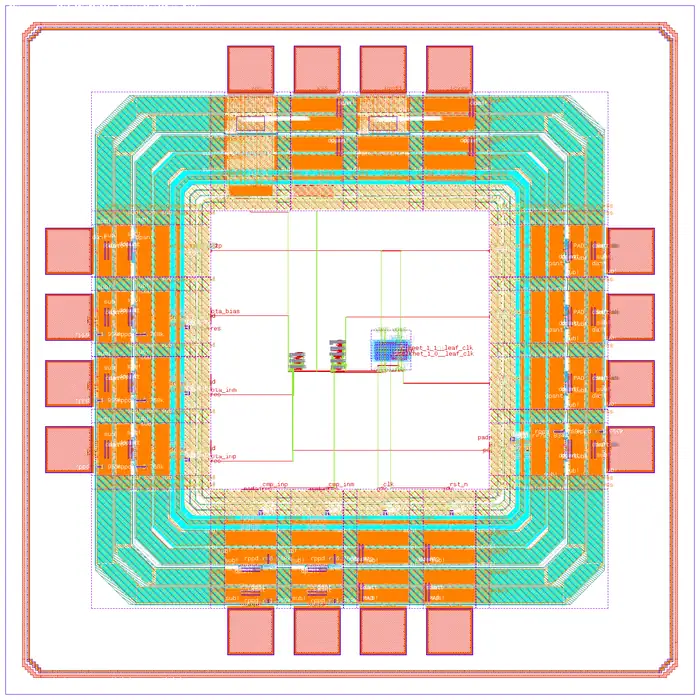
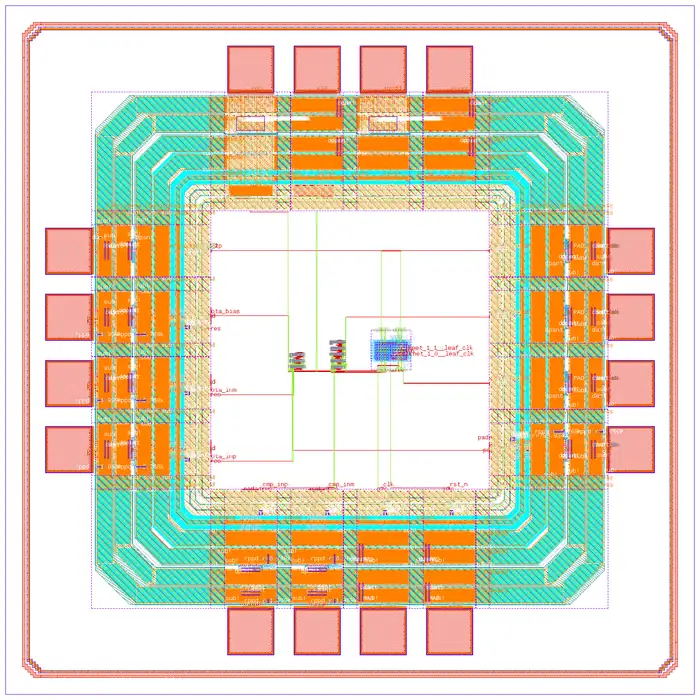
site: refresh layout timings and the chip render from the gated run on c28a1f8

diff --git a/site/index.html b/site/index.html
@@ -263,7 +263,7 @@
               <p>
                 Register IHP SG13G2 once and a project simulates with the PDK's own device models
                 on ngspice or Xyce. The agent sizes transistors by gm/Id from tables it builds,
-                starts from templates proven at every corner, and checks each spec across process,
+                starts from templates checked at every corner, and checks each spec across process,
                 temperature, supply and mismatch.
               </p>
               <ul class="checks">
@@ -306,7 +306,7 @@
             <dl class="facts">
               <div><dt>Two-stage op-amp, drawn</dt><dd>22.2 x 44.1<small>um</small></dd></div>
               <div><dt>Devices and dummies</dt><dd>9 + 8</dd></div>
-              <div><dt>Draw, DRC, LVS</dt><dd>1.1 + 2.7 + 2.6<small>s</small></dd></div>
+              <div><dt>Draw, DRC, LVS</dt><dd>1.1 + 2.5 + 2.5<small>s</small></dd></div>
               <div><dt>DRC and LVS, IHP's decks</dt><dd>clean</dd></div>
             </dl>
             <p class="facts-note">
@@ -320,7 +320,7 @@
             <!-- layout-art:start -->
             <img src="/img/ic/two-stage-layout.webp" srcset="/img/ic/two-stage-layout-1x.webp 1x, /img/ic/two-stage-layout.webp 2x" width="800" height="1564" loading="lazy" alt="The two-stage op-amp's layout drawn from the GDS aispice generated: the matched transistor rows with dummies and guard rings beside the MIM compensation capacitor" />
             <figcaption>The two-stage op-amp, drawn by aispice's generator with IHP's pcells, from its GDS.</figcaption>
-              <!-- layout-art:end -->
+            <!-- layout-art:end -->
           </figure>
         </div>
       </section>
@@ -336,8 +336,8 @@
                 A project declares Verilog-A models and Verilog to co-simulate. aispice builds
                 them itself with OpenVAF and Verilator, runs the result in a sandbox, and ngspice
                 simulates the transistors and the logic together. Above the block, the budget tool
-                splits a target into block specs with every equation, and the trim check proves a
-                trimmed block reaches its range at every corner and mismatch sample.
+                splits a target into block specs with every equation, and the trim check finds the
+                code that brings a trimmed block into range at every corner and mismatch sample.
               </p>
               <ul class="checks">
                 <li>Behavioural models and co-simulated Verilog, sandboxed</li>
@@ -368,7 +368,7 @@
             <!-- chip-art:start -->
             <img src="/img/ic/demo-chip.webp" srcset="/img/ic/demo-chip-1x.webp 1x, /img/ic/demo-chip.webp 2x" width="1400" height="1400" loading="lazy" alt="An analog-on-top chip assembled by aispice, drawn from its GDS: IHP's pad ring with 16 pads around a core holding the OTA, the StrongARM comparator and a two-bit counter hardened by LibreLane" />
             <figcaption>An OTA, a StrongARM comparator and a counter hardened by LibreLane in IHP's pad ring, from the chip's GDS.</figcaption>
-              <!-- chip-art:end -->
+            <!-- chip-art:end -->
           </figure>
           <div class="feature-copy">
             <p class="eyebrow">Chips</p>
@@ -387,7 +387,7 @@
               <div><dt>DRC, all four decks</dt><dd>clean</dd></div>
               <div><dt>LVS, to the counter's cells</dt><dd>clean</dd></div>
             </dl>
-              <!-- chip-facts:end -->
+            <!-- chip-facts:end -->
             <div class="chips-links">
               <a class="btn btn-ghost" href="https://danieltyukov.github.io/chipleap/">ChipLeap</a>
               <a class="btn btn-ghost" href="https://github.com/danieltyukov/aispice/blob/master/docs/macro-package.md">The package format</a>
